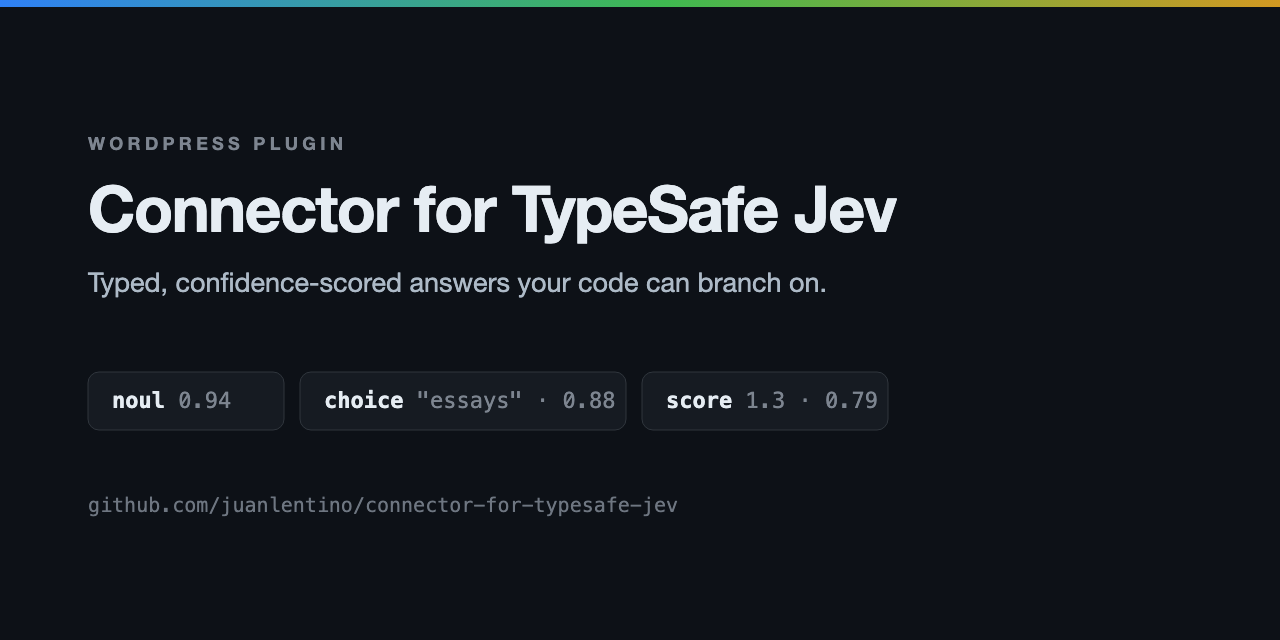
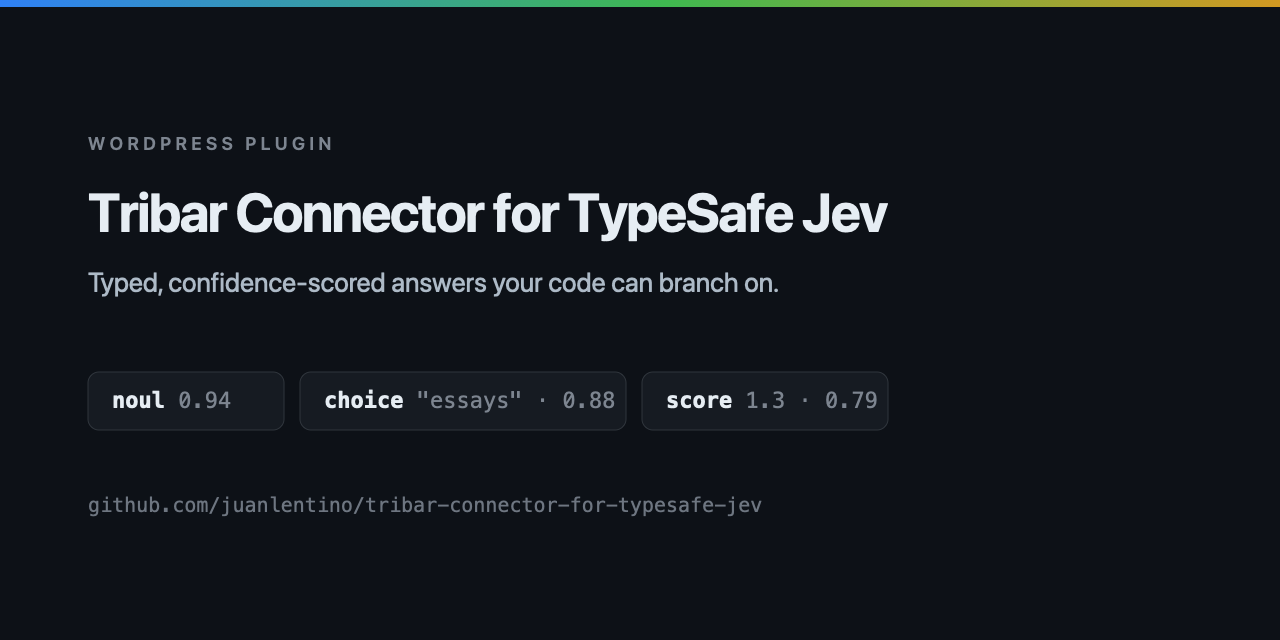
Release 0.4.6: rename to Tribar Connector for TypeSafe Jev (#32)
The WordPress.org review (2026-10-26) pended \"Connector for TypeSafe
Jev\" as too generic. This renames it to **Tribar Connector for TypeSafe
Jev**, with slug and text domain `tribar-connector-for-typesafe-jev` and
a matching main file. It also sets `Contributors: juanml`, the
WordPress.org account that owns the submission.

- The PHP API, `jevc_` hooks, setting names and the `jev/v1` REST
namespace are unchanged.
- The repo is renamed to match the slug. GitHub redirects the old URLs.
- The per-call `long_context` argument from Unreleased ships in this
release too.

Test plan
- [x] `composer test`: 46 tests pass
- [x] `phpcs` run on a copy outside `.claude/`, because the ruleset
excludes `/.claude/*` and so checks nothing inside a worktree. It is
clean, and it flags a deliberately wrong text domain.
- [ ] CI Plugin Check on the staged `tribar-connector-for-typesafe-jev`
folder

🤖 Generated with [Claude Code](https://claude.com/claude-code)

diff --git a/includes/class-client.php b/includes/class-client.php
@@ -120,7 +120,7 @@ final class Client {
 		if ( false === $body ) {
 			return new \WP_Error(
 				'jevc_encode_failed',
-				__( 'The request could not be encoded as JSON.', 'connector-for-typesafe-jev' )
+				__( 'The request could not be encoded as JSON.', 'tribar-connector-for-typesafe-jev' )
 			);
 		}
 
@@ -193,7 +193,7 @@ final class Client {
 				if ( ! is_array( $decoded ) ) {
 					$last_error = new \WP_Error(
 						'jevc_invalid_response',
-						__( 'TypeSafe returned a response that could not be decoded.', 'connector-for-typesafe-jev' )
+						__( 'TypeSafe returned a response that could not be decoded.', 'tribar-connector-for-typesafe-jev' )
 					);
 					break;
 				}
@@ -223,7 +223,7 @@ final class Client {
 
 		$error = $last_error instanceof \WP_Error
 			? $last_error
-			: new \WP_Error( 'jevc_request_failed', __( 'The TypeSafe request failed.', 'connector-for-typesafe-jev' ) );
+			: new \WP_Error( 'jevc_request_failed', __( 'The TypeSafe request failed.', 'tribar-connector-for-typesafe-jev' ) );
 
 		/**
 		 * Fires when a System One call fails for good.
@@ -258,7 +258,7 @@ final class Client {
 	public static function not_configured(): \WP_Error {
 		return new \WP_Error(
 			'jevc_not_configured',
-			__( 'TypeSafe is not connected. Add an API key under Settings then Connectors.', 'connector-for-typesafe-jev' )
+			__( 'TypeSafe is not connected. Add an API key under Settings then Connectors.', 'tribar-connector-for-typesafe-jev' )
 		);
 	}
 
@@ -271,19 +271,19 @@ final class Client {
 	 */
 	public static function error_for_status( int $status, string $raw ): \WP_Error {
 		$messages = array(
-			400 => __( 'TypeSafe rejected the request as malformed.', 'connector-for-typesafe-jev' ),
-			401 => __( 'The TypeSafe API key is missing or invalid.', 'connector-for-typesafe-jev' ),
-			403 => __( 'This TypeSafe API key is not permitted to make that call.', 'connector-for-typesafe-jev' ),
-			404 => __( 'The TypeSafe endpoint was not found.', 'connector-for-typesafe-jev' ),
-			422 => __( 'TypeSafe could not validate the question or state.', 'connector-for-typesafe-jev' ),
-			429 => __( 'The TypeSafe rate limit was exceeded.', 'connector-for-typesafe-jev' ),
-			529 => __( 'TypeSafe is overloaded. Try again shortly.', 'connector-for-typesafe-jev' ),
+			400 => __( 'TypeSafe rejected the request as malformed.', 'tribar-connector-for-typesafe-jev' ),
+			401 => __( 'The TypeSafe API key is missing or invalid.', 'tribar-connector-for-typesafe-jev' ),
+			403 => __( 'This TypeSafe API key is not permitted to make that call.', 'tribar-connector-for-typesafe-jev' ),
+			404 => __( 'The TypeSafe endpoint was not found.', 'tribar-connector-for-typesafe-jev' ),
+			422 => __( 'TypeSafe could not validate the question or state.', 'tribar-connector-for-typesafe-jev' ),
+			429 => __( 'The TypeSafe rate limit was exceeded.', 'tribar-connector-for-typesafe-jev' ),
+			529 => __( 'TypeSafe is overloaded. Try again shortly.', 'tribar-connector-for-typesafe-jev' ),
 		);
 
 		$message = isset( $messages[ $status ] )
 			? $messages[ $status ]
 			/* translators: %d: HTTP status code. */
-			: sprintf( __( 'TypeSafe returned HTTP %d.', 'connector-for-typesafe-jev' ), $status );
+			: sprintf( __( 'TypeSafe returned HTTP %d.', 'tribar-connector-for-typesafe-jev' ), $status );
 
 		$detail = json_decode( $raw, true );
 

diff --git a/tribar-connector-for-typesafe-jev.php b/tribar-connector-for-typesafe-jev.php
@@ -1,16 +1,16 @@
 <?php
 /**
- * Plugin Name:       Connector for TypeSafe Jev
- * Plugin URI:        https://github.com/juanlentino/connector-for-typesafe-jev
+ * Plugin Name:       Tribar Connector for TypeSafe Jev
+ * Plugin URI:        https://github.com/juanlentino/tribar-connector-for-typesafe-jev
  * Description:       Connects WordPress to the TypeSafe System One API (Jev) through the core Connectors API. A PHP client, question builders, a REST proxy, and hooks so themes and plugins can ask typed questions and get structured, confidence-scored answers. No screens of its own.
- * Version:           0.4.5
+ * Version:           0.4.6
  * Requires at least: 7.0
  * Requires PHP:      7.4
  * Author:            Juan Lentino
  * Author URI:        https://juanlentino.com
  * License:           GPL-2.0-or-later
  * License URI:       https://www.gnu.org/licenses/gpl-2.0.html
- * Text Domain:       connector-for-typesafe-jev
+ * Text Domain:       tribar-connector-for-typesafe-jev
  *
  * @package JevConnector
  */
@@ -21,7 +21,7 @@ namespace JevConnector;
 
 defined( 'ABSPATH' ) || exit;
 
-const VERSION     = '0.4.5';
+const VERSION     = '0.4.6';
 const PLUGIN_FILE = __FILE__;
 
 require_once __DIR__ . '/includes/class-exception.php';

diff --git a/includes/class-rest-controller.php b/includes/class-rest-controller.php
@@ -43,12 +43,12 @@ final class REST_Controller {
 						'state'     => array(
 							'required'    => true,
 							'type'        => array( 'string', 'object', 'array' ),
-							'description' => __( 'The content to evaluate.', 'connector-for-typesafe-jev' ),
+							'description' => __( 'The content to evaluate.', 'tribar-connector-for-typesafe-jev' ),
 						),
 						'questions' => array(
 							'required'    => true,
 							'type'        => 'object',
-							'description' => __( 'Map of question id to question definition.', 'connector-for-typesafe-jev' ),
+							'description' => __( 'Map of question id to question definition.', 'tribar-connector-for-typesafe-jev' ),
 						),
 						'model'     => array(
 							'type'    => 'string',
@@ -118,7 +118,7 @@ final class REST_Controller {
 		if ( ! is_array( $questions ) ) {
 			return new \WP_Error(
 				'jevc_invalid_question',
-				__( 'questions must be an object.', 'connector-for-typesafe-jev' ),
+				__( 'questions must be an object.', 'tribar-connector-for-typesafe-jev' ),
 				array( 'status' => 400 )
 			);
 		}

diff --git a/includes/class-connector.php b/includes/class-connector.php
@@ -65,8 +65,8 @@ final class Connector {
 	 */
 	public static function args(): array {
 		$args = array(
-			'name'           => __( 'TypeSafe Jev', 'connector-for-typesafe-jev' ),
-			'description'    => __( 'System One model for classification, scoring, and typed decisions. Returns probabilities and confidence instead of prose.', 'connector-for-typesafe-jev' ),
+			'name'           => __( 'TypeSafe Jev', 'tribar-connector-for-typesafe-jev' ),
+			'description'    => __( 'System One model for classification, scoring, and typed decisions. Returns probabilities and confidence instead of prose.', 'tribar-connector-for-typesafe-jev' ),
 			/**
 			 * Filters the connector type.
 			 *

diff --git a/tests/bootstrap.php b/tests/bootstrap.php
@@ -413,7 +413,7 @@ function wp_strip_all_tags( string $value ): string {
 define( 'HOUR_IN_SECONDS', 3600 );
 define( 'DAY_IN_SECONDS', 86400 );
 define( 'JevConnector\\VERSION', '0.1.0' );
-define( 'JevConnector\\PLUGIN_FILE', dirname( __DIR__ ) . '/connector-for-typesafe-jev.php' );
+define( 'JevConnector\\PLUGIN_FILE', dirname( __DIR__ ) . '/tribar-connector-for-typesafe-jev.php' );
 
 require_once dirname( __DIR__ ) . '/includes/class-exception.php';
 require_once dirname( __DIR__ ) . '/includes/class-question.php';

diff --git a/includes/class-models.php b/includes/class-models.php
@@ -89,7 +89,7 @@ final class Models {
 		if ( null === $models ) {
 			return new \WP_Error(
 				'jevc_invalid_response',
-				__( 'TypeSafe returned a response that could not be decoded.', 'connector-for-typesafe-jev' )
+				__( 'TypeSafe returned a response that could not be decoded.', 'tribar-connector-for-typesafe-jev' )
 			);
 		}
 

diff --git a/SUBMITTING.md b/SUBMITTING.md
@@ -49,7 +49,7 @@ one last grep before you upload:
 
 1. Sign in at https://wordpress.org/plugins/developers/add/ with your
    WordPress.org account.
-2. Upload `connector-for-typesafe-jev.zip`.
+2. Upload `tribar-connector-for-typesafe-jev.zip`.
 3. Wait. Review takes 1 to 10 days, and they aim for 5 business days. It cannot
    be expedited, so do not ask. You get one email thread with a reviewer; reply
    in that thread rather than resubmitting.
@@ -57,19 +57,27 @@ one last grep before you upload:
 **The slug is set by the `Plugin Name:` header and cannot be changed after
 approval.** Before review begins you may get one chance to change it in the UI;
 once it is under review, only plugins@wordpress.org can change it. So check the
-header reads exactly `Connector for TypeSafe Jev` before you upload.
+header reads exactly `Tribar Connector for TypeSafe Jev` before you upload.
 
 ## About the name
 
-The plugin is named **Connector for TypeSafe Jev**, not "TypeSafe Jev
+The plugin is named **Tribar Connector for TypeSafe Jev**, not "TypeSafe Jev
 Connector", on purpose. Guideline 17 prohibits a third-party trademark as the
 *first* term of a plugin slug unless you can prove you own or represent the
-mark. "Feature for Brand" is the form reviewers accept. The resulting slug will
-be `connector-for-typesafe-jev`.
+mark. "Feature for Brand" is the form reviewers accept. The slug is
+`tribar-connector-for-typesafe-jev`.
 
-The GitHub repo carries the same name as the slug, `connector-for-typesafe-jev`
-(it was `jev-connector` until 0.4.1, and GitHub redirects the old URLs). The
-directory slug itself comes from the `Plugin Name:` header at submission time.
+"Tribar" is there because the first submission, "Connector for TypeSafe Jev",
+was pended on 2026-10-26 as too generic: a descriptive word plus someone
+else's product name, with nothing distinctive. Reviewers want a coined term or
+personal brand at the front. Tribar is coined (the plugin's icon is three
+confidence bars) and had no matches in the directory. Do not drop it.
+
+The GitHub repo carries the same name as the slug, `tribar-connector-for-typesafe-jev`
+(it was `jev-connector` until 0.4.1 and `connector-for-typesafe-jev` until
+0.4.6; GitHub redirects the old URLs). The directory slug itself comes from
+the `Plugin Name:` header at submission time, or from plugins@wordpress.org
+once a review is open.
 
 The directory listing says, as most unofficial integrations do, that the plugin
 is independent and not affiliated with, endorsed by, or sponsored by TypeSafe
@@ -81,7 +89,7 @@ and saves a takedown later.
 
 ## After approval
 
-You get SVN access at `https://plugins.svn.wordpress.org/connector-for-typesafe-jev/`.
+You get SVN access at `https://plugins.svn.wordpress.org/tribar-connector-for-typesafe-jev/`.
 The per-release SVN procedure, and the versioning rules that go with it, are
 in [docs/RELEASING.md](docs/RELEASING.md).
 

diff --git a/README.md b/README.md
@@ -1,7 +1,7 @@
-# Connector for TypeSafe Jev
+# Tribar Connector for TypeSafe Jev
 
-[![CI](https://github.com/juanlentino/connector-for-typesafe-jev/actions/workflows/ci.yml/badge.svg)](https://github.com/juanlentino/connector-for-typesafe-jev/actions/workflows/ci.yml)
-[![Release](https://img.shields.io/github/v/release/juanlentino/connector-for-typesafe-jev?label=release)](https://github.com/juanlentino/connector-for-typesafe-jev/releases/latest)
+[![CI](https://github.com/juanlentino/tribar-connector-for-typesafe-jev/actions/workflows/ci.yml/badge.svg)](https://github.com/juanlentino/tribar-connector-for-typesafe-jev/actions/workflows/ci.yml)
+[![Release](https://img.shields.io/github/v/release/juanlentino/tribar-connector-for-typesafe-jev?label=release)](https://github.com/juanlentino/tribar-connector-for-typesafe-jev/releases/latest)
 [![WordPress 7.0+](https://img.shields.io/badge/WordPress-7.0%2B-21759b)](https://wordpress.org/download/)
 [![PHP 7.4+](https://img.shields.io/badge/PHP-7.4%2B-777bb4)](https://www.php.net/supported-versions.php)
 [![License: GPL-2.0-or-later](https://img.shields.io/badge/license-GPL--2.0--or--later-blue)](LICENSE)
@@ -71,12 +71,12 @@ Anything that publishes, deletes or emails should gate on a high threshold or a 
 
 **From a release zip**
 
-Download the latest zip from [Releases](https://github.com/juanlentino/connector-for-typesafe-jev/releases) and install it through **Plugins → Add New → Upload Plugin**.
+Download the latest zip from [Releases](https://github.com/juanlentino/tribar-connector-for-typesafe-jev/releases) and install it through **Plugins → Add New → Upload Plugin**.
 
 **From source**
 
 ```bash
-git clone https://github.com/juanlentino/connector-for-typesafe-jev.git wp-content/plugins/connector-for-typesafe-jev
+git clone https://github.com/juanlentino/tribar-connector-for-typesafe-jev.git wp-content/plugins/tribar-connector-for-typesafe-jev
 ```
 
 ## Configure

diff --git a/CONTRIBUTING.md b/CONTRIBUTING.md
@@ -7,18 +7,18 @@ request that reverses one of them will be closed with a pointer to that file.
 
 ## Where to start
 
-Issues labelled [`good first issue`](https://github.com/juanlentino/connector-for-typesafe-jev/labels/good%20first%20issue)
-are scoped to one file and say what "done" means. [`blocked: upstream`](https://github.com/juanlentino/connector-for-typesafe-jev/labels/blocked%3A%20upstream)
+Issues labelled [`good first issue`](https://github.com/juanlentino/tribar-connector-for-typesafe-jev/labels/good%20first%20issue)
+are scoped to one file and say what "done" means. [`blocked: upstream`](https://github.com/juanlentino/tribar-connector-for-typesafe-jev/labels/blocked%3A%20upstream)
 issues wait on TypeSafe or WordPress core; talking through the shape there is
-welcome. Questions and ideas go to [Discussions](https://github.com/juanlentino/connector-for-typesafe-jev/discussions).
+welcome. Questions and ideas go to [Discussions](https://github.com/juanlentino/tribar-connector-for-typesafe-jev/discussions).
 
 ## Setup
 
 Requires PHP 7.4+ and Composer. No WordPress install is needed for the tests.
 
 ```bash
-git clone https://github.com/juanlentino/connector-for-typesafe-jev.git
-cd connector-for-typesafe-jev
+git clone https://github.com/juanlentino/tribar-connector-for-typesafe-jev.git
+cd tribar-connector-for-typesafe-jev
 composer install
 composer check      # lint + tests
 ```
@@ -31,7 +31,7 @@ composer check      # lint + tests
   fixes.
 
 To exercise the plugin for real, symlink or clone the repo into
-`wp-content/plugins/connector-for-typesafe-jev` on a WordPress 7.0+ site.
+`wp-content/plugins/tribar-connector-for-typesafe-jev` on a WordPress 7.0+ site.
 The folder name matters: core derives text-domain and asset paths from it.
 
 ## What CI runs

diff --git a/docs/RELEASING.md b/docs/RELEASING.md
@@ -33,8 +33,8 @@ needs a fix after a newer minor has shipped: cut it from the tag, fix, tag
 They must move together. The directory serves whatever `Stable tag` points at.
 
 ```
-connector-for-typesafe-jev.php    * Version:           X.Y.Z
-connector-for-typesafe-jev.php    const VERSION     = 'X.Y.Z';
+tribar-connector-for-typesafe-jev.php    * Version:           X.Y.Z
+tribar-connector-for-typesafe-jev.php    const VERSION     = 'X.Y.Z';
 readme.txt                        Stable tag: X.Y.Z
 ```
 
@@ -59,7 +59,7 @@ readme.txt                        Stable tag: X.Y.Z
    git push origin vX.Y.Z
    ```
 
-8. The Release workflow builds `connector-for-typesafe-jev.zip` from
+8. The Release workflow builds `tribar-connector-for-typesafe-jev.zip` from
    `.distignore` and attaches it to a GitHub release with generated notes.
    Download it and check the file list and the three version strings before
    doing anything else with it.
@@ -80,9 +80,9 @@ The slug comes from the `Plugin Name:` header and is permanent.
 **Every release after approval,** from the SVN checkout:
 
 ```bash
-svn co https://plugins.svn.wordpress.org/connector-for-typesafe-jev/ svn-plugin
+svn co https://plugins.svn.wordpress.org/tribar-connector-for-typesafe-jev/ svn-plugin
 cd svn-plugin
-rm -rf trunk/* && unzip -q ../connector-for-typesafe-jev.zip && mv connector-for-typesafe-jev/* trunk/ && rmdir connector-for-typesafe-jev
+rm -rf trunk/* && unzip -q ../tribar-connector-for-typesafe-jev.zip && mv tribar-connector-for-typesafe-jev/* trunk/ && rmdir tribar-connector-for-typesafe-jev
 svn add --force trunk
 svn cp trunk tags/X.Y.Z
 svn ci -m "Release X.Y.Z"

diff --git a/CHANGELOG.md b/CHANGELOG.md
@@ -6,6 +6,20 @@ All notable changes to this project are documented here. The format follows
 
 ## [Unreleased]
 
+## [0.4.6] - 2026-10-26
+
+### Changed
+
+- Renamed to **Tribar Connector for TypeSafe Jev**, slug and text domain
+  `tribar-connector-for-typesafe-jev`, main file
+  `tribar-connector-for-typesafe-jev.php`. The directory review pended
+  "Connector for TypeSafe Jev" as too generic (a descriptive word plus a
+  third-party name) and asked for a distinctive term at the front. PHP API,
+  `jevc_` hooks, setting names and the `jev/v1` REST namespace are unchanged.
+- `readme.txt` Contributors is `juanml`, the WordPress.org account that owns
+  the submission; `juanlentino` is not a WordPress.org user.
+- GitHub repo renamed to match the slug; GitHub redirects the old URLs.
+
 ### Added
 
 - `'long_context' => true` per-call argument for `JevConnector\ask()` / `Client::ask()`, sending the `TypeSafe-Danger-Zone-Long-Context` header (64k/32k to 262k tokens) for that call only. The flag is part of the cache key, so a long-context answer is never served as a plain one.

diff --git a/CLAUDE.md b/CLAUDE.md
@@ -74,7 +74,9 @@ would mean two paths to keep in sync forever.
 ## Conventions
 
 - Prefix everything `jevc_` / namespace `JevConnector`. Text domain
-  `connector-for-typesafe-jev`.
+  `tribar-connector-for-typesafe-jev`.
+- "Tribar" in the name is required, not decoration: the directory pended
+  "Connector for TypeSafe Jev" as too generic (2026-10-26). See SUBMITTING.md.
 - Files stay small and single-purpose. Logic lives in pure static methods
   (`Question::validate_map()`, the `Response` readers) so it can be tested
   without WordPress.
